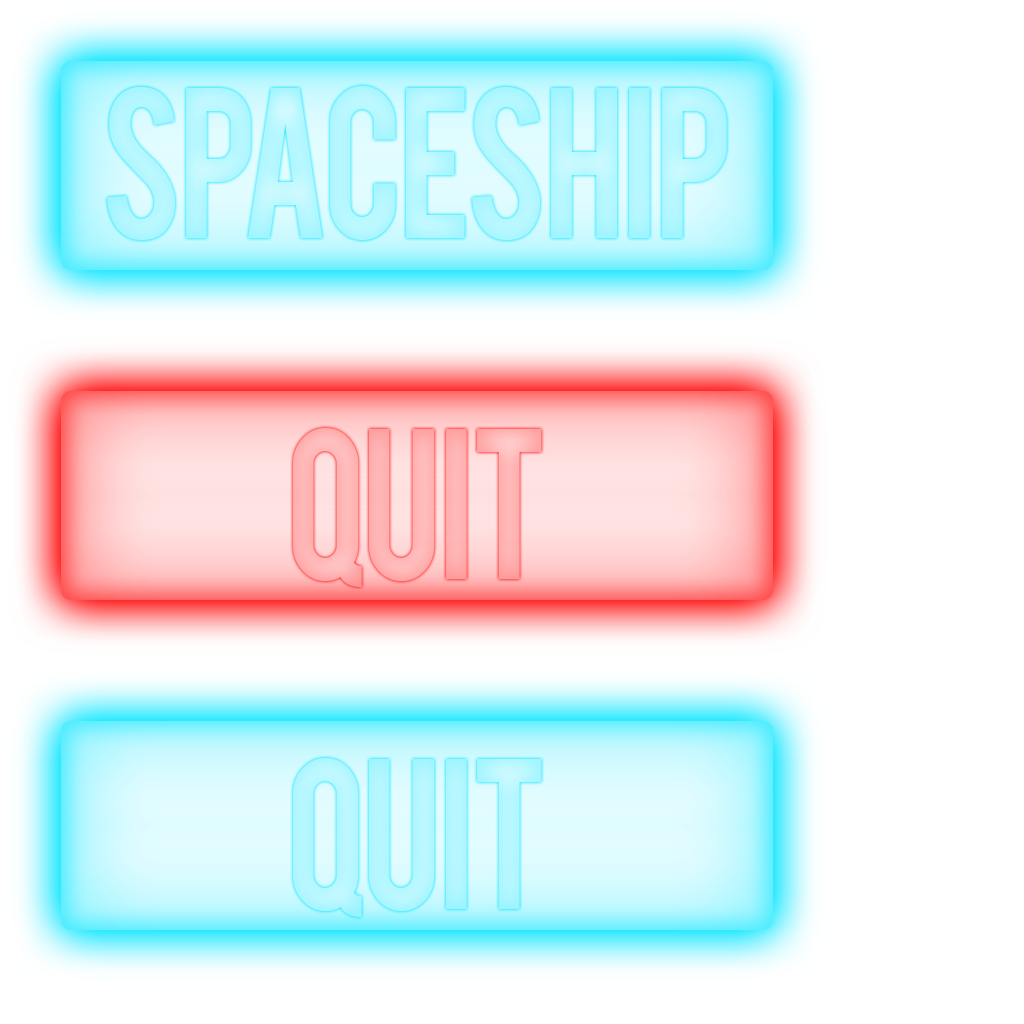
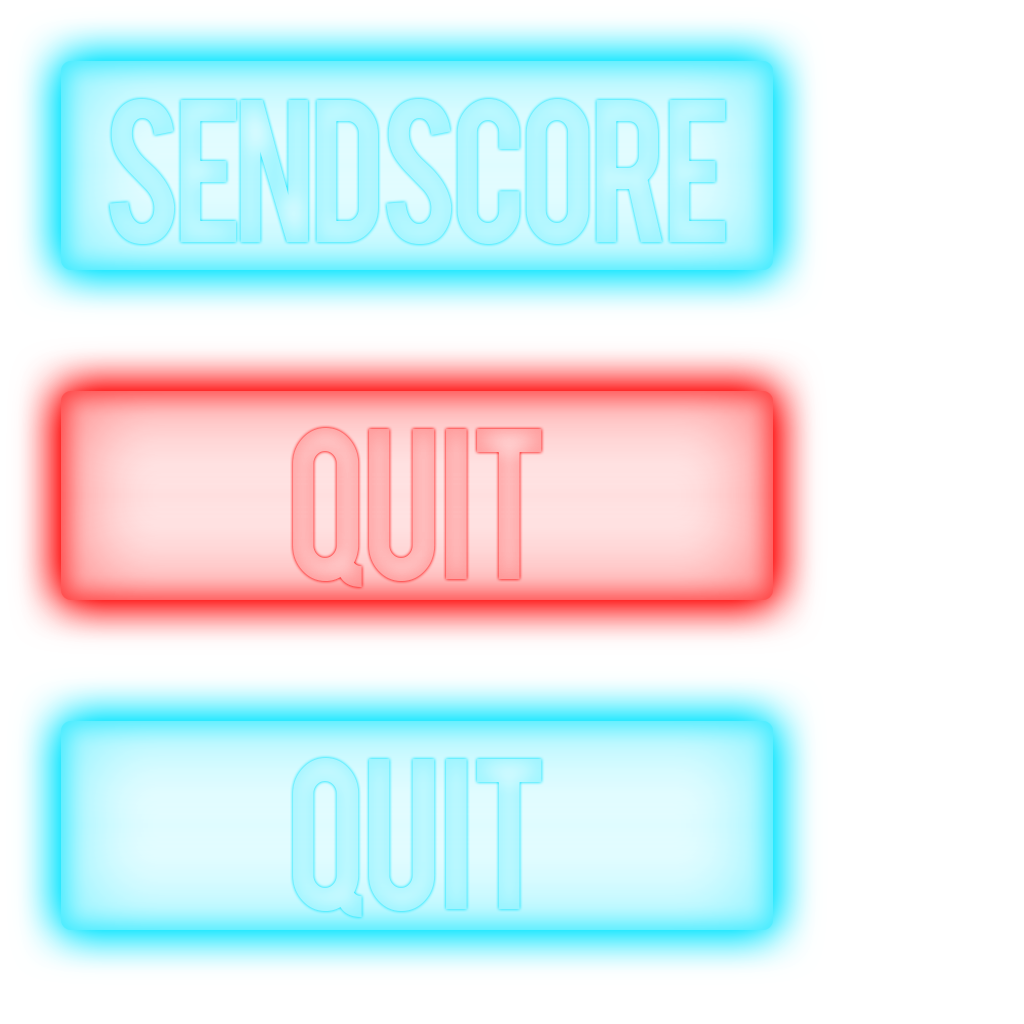
add fully implemented statistics screen

Changed region(s): [[0.0938, 0.0625, 0.7188, 0.25]]

diff --git a/core/src/com/mygdx/game/screen/menu/StatisticsScreen.java b/core/src/com/mygdx/game/screen/menu/StatisticsScreen.java
@@ -20,6 +20,7 @@ import com.mygdx.game.SpaceInvaderApp;
 import com.mygdx.game.enums.GameState;
 import com.mygdx.game.screen.AbstractScreen;
 import com.mygdx.game.util.Constants;
+import com.mygdx.game.util.IRequestCallback;
 
 import java.util.Map;
 
@@ -31,6 +32,8 @@ public class StatisticsScreen extends AbstractScreen {
     private TextureAtlas textureAtlas;
     private TextureRegion backTextureUp;
     private TextureRegion backTextureDown;
+    private TextureRegion updateTextureUp;
+    private TextureRegion updateTextureDown;
 
     private Map<String, Long> mapOfTopScores;
     private Skin skin;
@@ -38,6 +41,8 @@ public class StatisticsScreen extends AbstractScreen {
 
     private Label label;
     private Label topTenLabel;
+    private ImageButton updateStatsButton;
+
 
     public StatisticsScreen(final SpaceInvaderApp game) {
         super(game);
@@ -65,6 +70,28 @@ public class StatisticsScreen extends AbstractScreen {
             }
         });
 
+        updateStatsButton.addListener(new ClickListener(){
+            @Override
+            public void clicked (InputEvent event, float x, float y){
+                game.getScoreService().createUpdateScoreResponse(new IRequestCallback() {
+                    @Override
+                    public void onSucceed() {
+                        Gdx.app.postRunnable(new Runnable() {
+                            @Override
+                            public void run() {
+                                //TODO
+                            }
+                        });
+                    }
+
+                    @Override
+                    public void onError() {
+                        //TODO
+                    }
+                }, game.myPreferences);
+            }
+        });
+
         StringBuilder stringBuilder = new StringBuilder();
         int i = 0;
 
@@ -78,10 +105,12 @@ public class StatisticsScreen extends AbstractScreen {
         label = new Label(stringBuilder.toString(), skin);
         skin.getFont("default-font").getData().setScale(3f);
 
-        table.padTop(Constants.HEIGHT / 8f);
-        table.add(topTenLabel).height(200f).width(Constants.WIDTH / 1.5f).padBottom(200f);
+        table.padTop(100f);
+        table.add(topTenLabel).padBottom(150f);
         table.row();
-        table.add(label).height(200f).width(Constants.WIDTH / 1.5f).padBottom(100f);
+        table.add(label);
+        table.row();
+        table.add(updateStatsButton).height(200f).width(350f);
         table.row();
 
         stage.addActor(table);
@@ -105,6 +134,9 @@ public class StatisticsScreen extends AbstractScreen {
         backTextureDown = new TextureRegion(textureAtlas.findRegion("menu/level_buttons/strzalka1"));
         skin = game.assets.manager.get("skin/uiskin.json", Skin.class);
 
+        updateTextureUp = new TextureRegion(textureAtlas.findRegion("menu/main_menu_buttons/SEND SCORE"));
+        updateTextureDown = new TextureRegion(textureAtlas.findRegion("menu/main_menu_buttons/SEND SCOREk"));
+
     }
 
     private void initButtons() {
@@ -114,6 +146,10 @@ public class StatisticsScreen extends AbstractScreen {
 
         backButton.setSize(120f, 120f);
         backButton.setPosition(0, Constants.HEIGHT - 120f);
+
+        Drawable updateUp = new TextureRegionDrawable(updateTextureUp);
+        Drawable updateDown = new TextureRegionDrawable(updateTextureDown);
+        updateStatsButton = new ImageButton(updateUp, updateDown);
     }
 
     @Override

diff --git a/core/src/com/mygdx/game/networking/ScoreService.java b/core/src/com/mygdx/game/networking/ScoreService.java
@@ -2,9 +2,13 @@ package com.mygdx.game.networking;
 
 import com.badlogic.gdx.Gdx;
 import com.badlogic.gdx.Net;
+import com.badlogic.gdx.Net.HttpRequest;
 import com.badlogic.gdx.Net.HttpResponse;
+import com.badlogic.gdx.Net.HttpMethods;
 import com.badlogic.gdx.net.HttpRequestBuilder;
+import com.badlogic.gdx.net.HttpResponseHeader;
 import com.mygdx.game.util.IRequestCallback;
+import com.mygdx.game.util.MyPreferences;
 
 import org.json.JSONArray;
 import org.json.JSONException;
@@ -49,6 +53,43 @@ public class ScoreService {
             }
         });
     }
+
+    public void createUpdateScoreResponse(final IRequestCallback requestCallback, MyPreferences preferences) {
+
+        HttpRequest saveRequest = new HttpRequest(HttpMethods.POST);
+        saveRequest.setUrl(REQUEST_URL + "/post");
+
+        String content = "nickname: " + preferences.getNickname() + " score: " + preferences.getPoints();
+
+        saveRequest.setContent(content);
+        //Set a header so the server can tell this is JSON
+        saveRequest.setHeader("Content-Type", "application/json");
+        //Set a header telling the server that it's okay to send JSON back
+        saveRequest.setHeader("Accept", "application/json");
+
+
+        Gdx.net.sendHttpRequest(saveRequest, new Net.HttpResponseListener() {
+            @Override
+            public void handleHttpResponse(HttpResponse httpResponse) {
+                requestCallback.onSucceed();
+            }
+
+            @Override
+            public void failed(Throwable t) {
+                System.out.println(t.getMessage());
+                requestCallback.onError();
+            }
+
+            @Override
+            public void cancelled() {
+                requestCallback.onError();
+            }
+        });
+
+    }
+
+
+
 
     public Map<String, Long> getMapOfTopScores() {
         return mapOfTopScores;

diff --git a/core/src/com/mygdx/game/screen/game/GameScreen.java b/core/src/com/mygdx/game/screen/game/GameScreen.java
@@ -76,7 +76,7 @@ public class GameScreen extends AbstractScreen {
     public static TextureRegion fraction1OrangeShip3Texture;
     public static TextureRegion fraction1OrangeShip4Texture;
     private TextureRegion bulletImage;
-    private Texture pauseTexture; //TODO
+    private TextureRegion pauseTexture;
     public static Texture coinImage;
     public static Texture revertImage;
     public static Texture shieldImage;
@@ -300,7 +300,7 @@ public class GameScreen extends AbstractScreen {
         level1Music = game.assets.manager.get("music/level1Music.wav", Music.class);
         flameEffect = game.assets.manager.get("effects/explosion.flame", ParticleEffect.class);
         engineEffect = game.assets.manager.get("effects/engine2.flame", ParticleEffect.class);
-        pauseTexture = game.assets.manager.get("menu/pause.png", Texture.class);
+        pauseTexture = new TextureRegion(textureAtlas.findRegion("menu/pause_buttons/pause"));
         coinImage = game.assets.manager.get("coin.png", Texture.class);
         revertImage = game.assets.manager.get("revert.png", Texture.class);
         shieldImage = game.assets.manager.get("shield.png", Texture.class);

diff --git a/core/src/com/mygdx/game/util/Assets.java b/core/src/com/mygdx/game/util/Assets.java
@@ -28,9 +28,6 @@ public class Assets implements Disposable {
         manager.load("coin.png", Texture.class);
         manager.load("shield.png", Texture.class);
 
-        //menu
-        manager.load("menu/pause.png", Texture.class);
-
         //Particle effects
         manager.load("effects/explosion.flame", ParticleEffect.class);
         manager.load("effects/engine2.flame", ParticleEffect.class);
